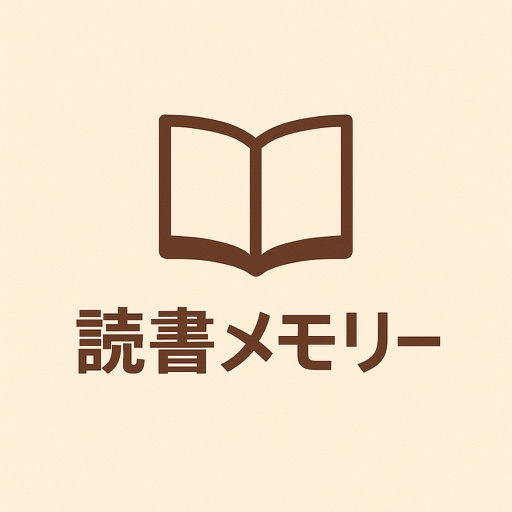
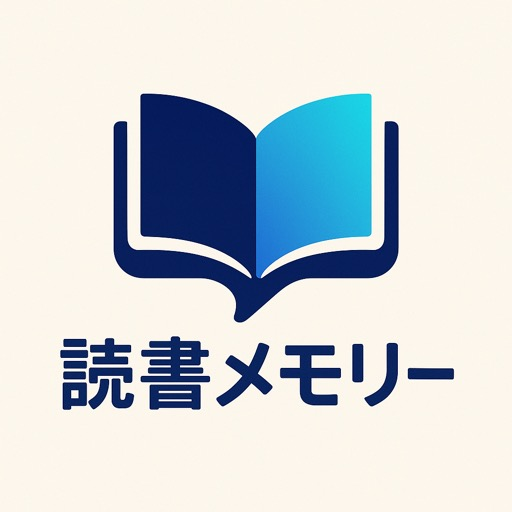
feat: 読書メモリーのプロダクトページ情報を更新
- プライバシーポリシーをアプリの実際の挙動に合わせて修正
  - データ収集レベルを minimal → standard に変更
  - Firebase/Firestore によるクラウド同期を明記
  - Claude API、RevenueCat 等の外部サービスを追加
  - Firebase Analytics の使用を明記
- サポート FAQ を実態に合わせて更新
  - クラウド同期、オンライン必須、アカウント削除方法、プラン比較
- アプリアイコンを更新

Changed region(s): [[0.0938, 0.1562, 0.9062, 0.8125]]

diff --git a/src/lib/data/products.ts b/src/lib/data/products.ts
@@ -32,27 +32,46 @@ export const products: Product[] = [
 			'ダークモード対応'
 		],
 		privacy: {
-			effectiveDate: '2026-02-11',
-			dataCollection: 'minimal',
-			dataItems: ['読書記録データ（端末内保存）', 'AI対話履歴（端末内保存）'],
-			thirdPartyServices: ['OpenAI API（AI対話機能）'],
-			analyticsUsed: false,
+			effectiveDate: '2026-02-14',
+			dataCollection: 'standard',
+			dataItems: [
+				'アカウント情報（Google/Apple Sign-In）',
+				'読書記録・本棚データ（Firestore クラウド同期）',
+				'チャットメモ・AI対話履歴（Firestore クラウド同期）',
+				'プロフィール情報・アバター画像（Cloud Storage）',
+				'読書目標・アチーブメント（Firestore クラウド同期）',
+				'アプリ利用状況（Firebase Analytics）'
+			],
+			thirdPartyServices: [
+				'Firebase Authentication（ユーザー認証）',
+				'Cloud Firestore（データ保存・同期）',
+				'Cloud Storage for Firebase（画像保存）',
+				'Firebase Analytics（利用状況分析）',
+				'Claude API by Anthropic（AI対話機能）',
+				'Google Books API / OpenBD（書籍情報検索）',
+				'RevenueCat（サブスクリプション管理）'
+			],
+			analyticsUsed: true,
 			contactEmail: 'info@taniguchi-kyoichi.com'
 		},
 		support: {
 			contactEmail: 'info@taniguchi-kyoichi.com',
 			faq: [
 				{
-					question: 'データはクラウドに保存されますか？',
-					answer: '読書記録やメモはすべて端末内に保存されます。外部サーバーへのデータ送信は行いません。'
+					question: 'データはどこに保存されますか？',
+					answer: '読書記録やメモはFirebase（Google Cloud）上に安全に保存され、デバイス間で同期されます。アカウントにログインすれば、どのデバイスからでもデータにアクセスできます。'
 				},
 				{
-					question: 'AI機能にはインターネット接続が必要ですか？',
-					answer: 'AI対話機能を使用する場合のみインターネット接続が必要です。それ以外の機能はオフラインで利用できます。'
+					question: 'インターネット接続は必要ですか？',
+					answer: 'はい、ログインやデータの同期にインターネット接続が必要です。オフライン時もキャッシュされたデータの閲覧は可能ですが、新規登録や編集にはオンライン環境が必要です。'
 				},
 				{
-					question: 'アプリを削除するとデータは消えますか？',
-					answer: 'はい、アプリを削除するとすべてのデータが端末から削除されます。'
+					question: 'アカウントやデータを削除するには？',
+					answer: 'プロフィール画面の「アカウント削除」からアカウントと全データを完全に削除できます。この操作は取り消せません。'
+				},
+				{
+					question: '無料プランとプレミアムプランの違いは？',
+					answer: '無料プランでは月10冊まで登録可能です。プレミアムプラン（月額¥600 / 年額¥6,000）では登録冊数無制限で全機能をご利用いただけます。'
 				}
 			],
 			systemRequirements: 'iOS 17.0以上'
